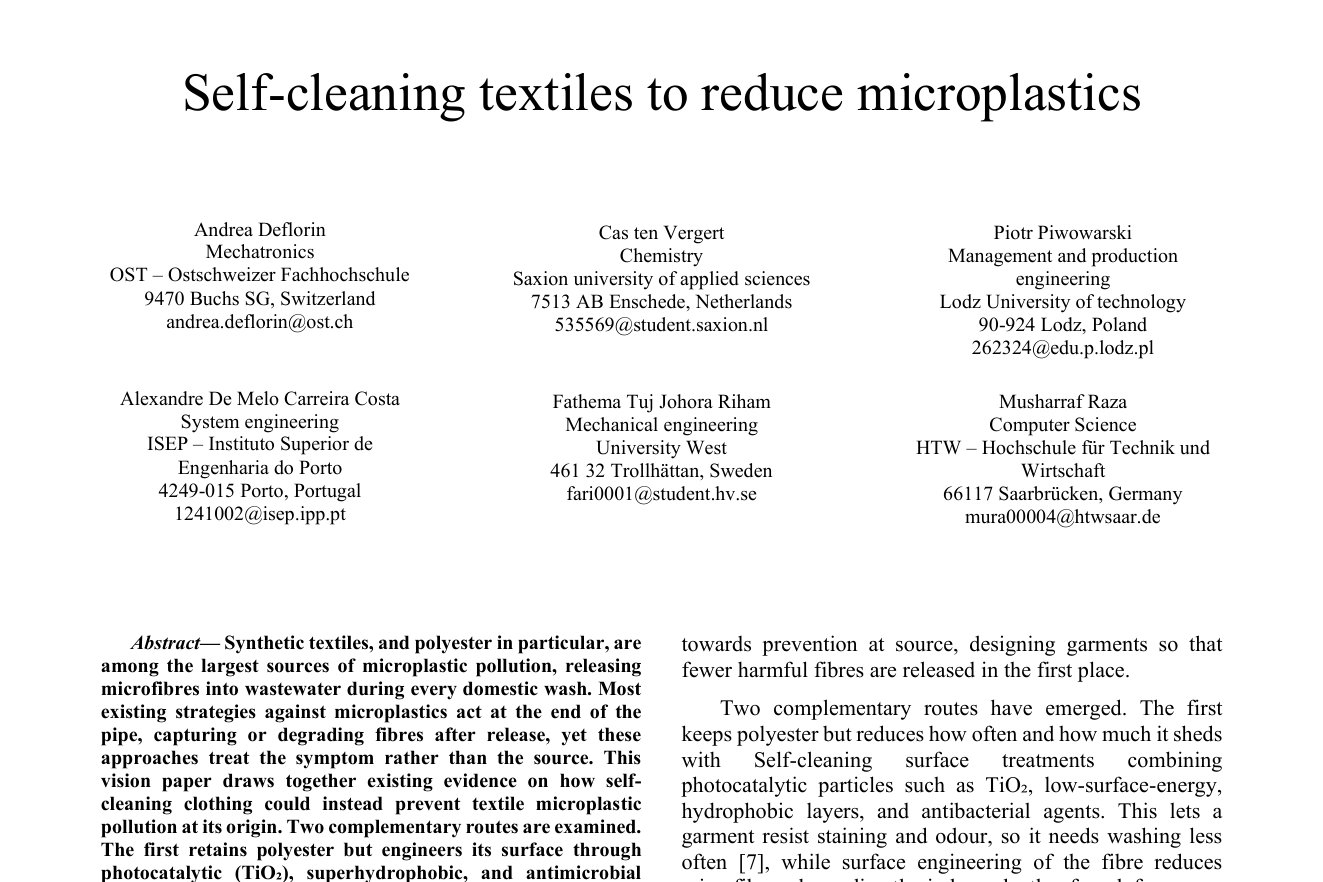
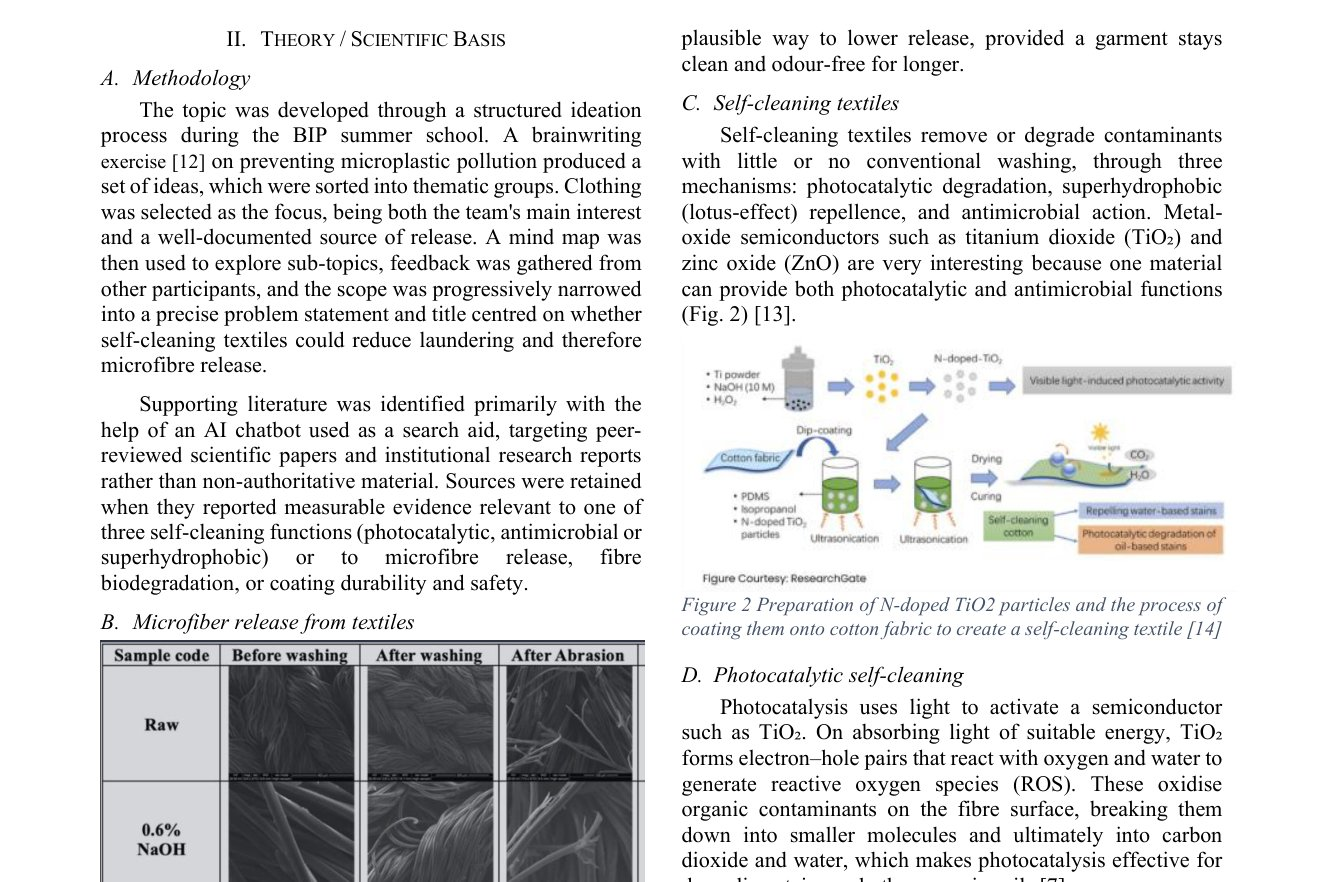
fix: hide paper author block and feature only photo-led projects

Changed region(s): [[0.062, 0.0306, 0.9297, 0.6735], [0.062, 0.6429, 0.9297, 1.0], [0.1859, 0.0306, 0.3719, 0.0612]]

diff --git a/src/content/projects/bip-self-cleaning-textiles-2026/en.md b/src/content/projects/bip-self-cleaning-textiles-2026/en.md
@@ -1,7 +1,7 @@
 ---
 title: Self-cleaning textiles against microplastics — Erasmus+ BIP
 summary: An IEEE-format review paper co-authored by six students from six European institutions at the htw saar Erasmus+ BIP.
-coverAlt: Top of the first page of the paper "Self-cleaning textiles to reduce microplastics", with the title and the six authors.
+coverAlt: Excerpt from the second page of the paper, with the methodology and a diagram of coating fabric with TiO₂ particles.
 ---
 
 htw saar's Blended Intensive Programme **Engineering Visions 2026** (Saarbrücken, Germany) brought together students from across Europe to work on ways to fight microplastics and PFAS: an online part plus two weeks on site. My team had six students from six institutions — mechatronics, chemistry, management, mechanical engineering, computer science and me, from systems engineering — and worked entirely in English.
@@ -23,6 +23,6 @@ The conclusion: the decisive difference lies in the fibre, not the finish. And w
 
 Brainwriting to generate ideas, grouping by theme, a mind map to narrow the scope and feedback from other participants until we reached the final question. Then a search for peer-reviewed papers and writing with twelve hands. At the end we presented the results orally, as a group.
 
-![First page of the paper: title, authors, abstract and introduction.](./page-1.jpg)
+![First page of the paper, from the abstract on: abstract, keywords and introduction.](./page-1.jpg)
 
 ![Second page of the paper: methodology, microfibre release and self-cleaning mechanisms.](./page-2.jpg)

diff --git a/src/content/projects/bip-self-cleaning-textiles-2026/pt.md b/src/content/projects/bip-self-cleaning-textiles-2026/pt.md
@@ -7,8 +7,7 @@ context: isep
 course: Erasmus+ BIP Engineering Visions 2026
 tech: [Revisão de literatura, Escrita científica (IEEE), Inglês]
 cover: ./cover.jpg
-coverAlt: Topo da primeira página do artigo "Self-cleaning textiles to reduce microplastics", com o título e os seis autores.
-featured: 3
+coverAlt: Excerto da segunda página do artigo, com a metodologia e um diagrama do revestimento de tecido com partículas de TiO₂.
 ---
 
 O Blended Intensive Programme **Engineering Visions 2026** da htw saar (Saarbrücken, Alemanha) juntou estudantes de toda a Europa para pensar em formas de combater microplásticos e PFAS: uma parte online e duas semanas presenciais. A minha equipa tinha seis estudantes de seis instituições — mecatrónica, química, gestão, engenharia mecânica, informática e eu, de engenharia de sistemas — e trabalhou sempre em inglês.
@@ -30,6 +29,6 @@ A conclusão: a diferença decisiva está na fibra, não no acabamento. E fomos 
 
 Brainwriting para gerar ideias, agrupamento por temas, mapa mental para afunilar o âmbito e feedback dos outros participantes até chegar à pergunta final. Depois, pesquisa de artigos com revisão por pares e escrita a doze mãos. No fim, apresentámos os resultados oralmente, em grupo.
 
-![Primeira página do artigo: título, autores, resumo e introdução.](./page-1.jpg)
+![Primeira página do artigo, a partir do resumo: resumo, palavras-chave e introdução.](./page-1.jpg)
 
 ![Segunda página do artigo: metodologia, libertação de microfibras e mecanismos de autolimpeza.](./page-2.jpg)

diff --git a/docs/TAREFAS.md b/docs/TAREFAS.md
@@ -6,7 +6,8 @@
   - [x] Dragster: PCB + certificado Prémio Chita; BIP (paper, só imagens, sem download); Meireles Connect (capa tipográfica, link notícia ISEP); Space Benders F1 in Schools
   - [x] Áreas novas: Investigação, Comunicação; `featured` passa a posição na home (1–4)
   - [x] Mini-frigorífico Peltier (LENG1) e Drone dirigível (LENG2, colegas aceitam aparecer)
-  - [ ] Paiva MILP (à espera de material: modelo, gráficos ou mapa)
+  - [x] Paiva MILP fica de fora (decisão do utilizador)
+  - [x] Destaques só com boas fotos (Dragster, TrackBotGP, Peltier, Space Benders); paper sem o bloco de autores/emails
   - [ ] Meireles: diagramas/mockups se aparecerem; foto grande do robô Dragster (só há miniatura 160px)
   - [ ] Polimento: axe sem erros críticos, imagens ≤1 MB
 

diff --git a/src/content/projects/space-benders-f1-in-schools-2024/pt.md b/src/content/projects/space-benders-f1-in-schools-2024/pt.md
@@ -6,6 +6,7 @@ areas: [communication]
 context: personal
 tech: [Vídeo, Redes sociais, Gestão de marca]
 cover: ./cover.jpg
+featured: 4
 coverAlt: Os cinco membros da equipa Space Benders, de polo preto com os logótipos F1 in Schools e da Junta de Freguesia de Ermesinde, atrás da mesa da equipa com o portfólio oficial.
 ---
 

diff --git a/src/content/projects/peltier-fridge-2025/pt.md b/src/content/projects/peltier-fridge-2025/pt.md
@@ -7,6 +7,7 @@ context: isep
 course: LENG1
 tech: [Célula de Peltier, Eletrónica, Sensores, Controlo liga/desliga]
 cover: ./cover.jpg
+featured: 3
 coverAlt: O mini-frigorífico, uma caixa de esferovite com a palavra FRIGO pintada, com o dissipador e a ventoinha montados em cima, numa secretária.
 ---
 

diff --git a/src/content/projects/meireles-connect-2026/pt.md b/src/content/projects/meireles-connect-2026/pt.md
@@ -8,7 +8,6 @@ course: LSIS1
 tech: [PHP, MySQL, Web]
 cover: ./cover.png
 coverAlt: Capa tipográfica com o nome Meireles Connect em letras pretas condensadas e uma faixa vermelha em baixo.
-featured: 4
 links:
   docs: https://www.isep.ipp.pt/New/ViewNew/7656
 ---
